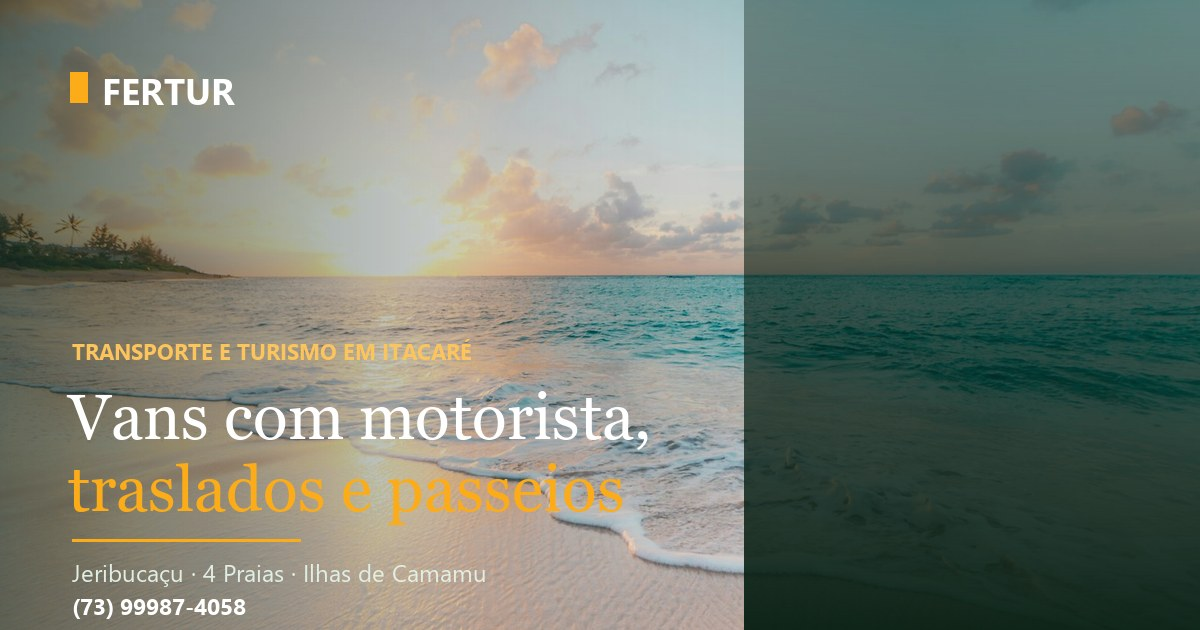
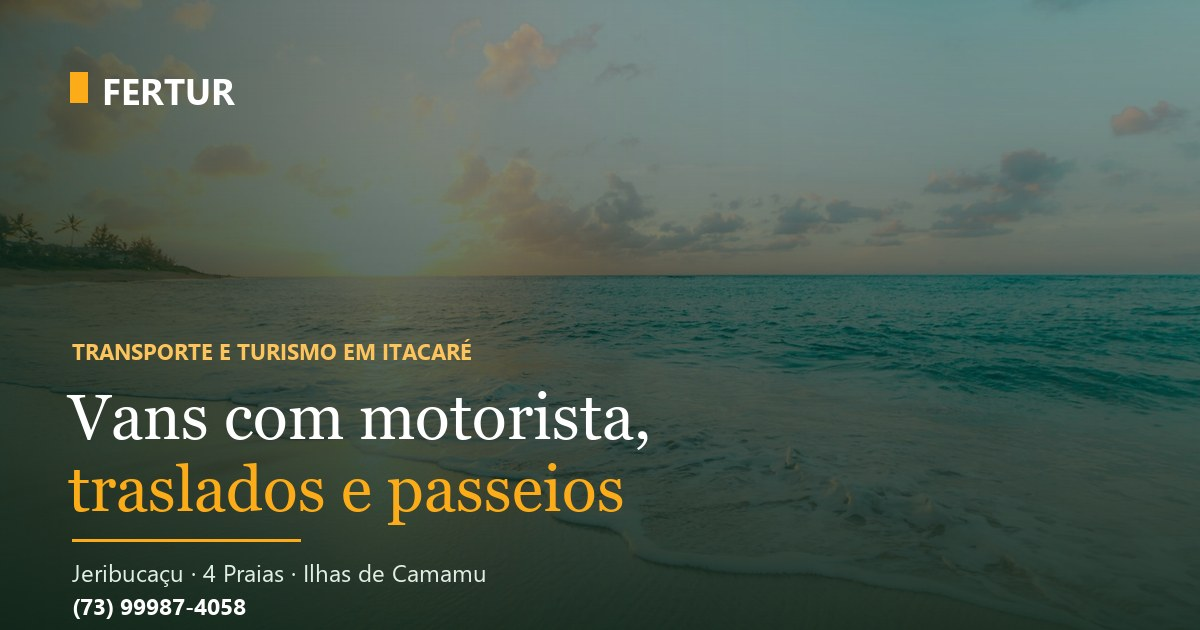
Refina a imagem de compartilhamento e força atualização do cache.
O degradê era desenhado em uma única camada RGBA e criava emenda vertical visível no cartão do WhatsApp; agora são duas camadas compostas. A imagem troca para ?v=2 porque o WhatsApp guarda a arte anterior em cache.

🤖 Generated with Codebuff

diff --git a/index.html b/index.html
@@ -15,8 +15,8 @@
 <meta property="og:url" content="https://fertur-previa.vercel.app/">
 <meta property="og:title" content="Fertur · Transporte e turismo em Itacaré">
 <meta property="og:description" content="Vans com motorista, traslados Ilhéus ↔ Itacaré e os passeios de Jeribucaçu, 4 Praias e Ilhas de Camamu. Reservas no WhatsApp (73) 99987-4058.">
-<meta property="og:image" content="https://fertur-previa.vercel.app/assets/img/og-fertur.jpg?v=1">
-<meta property="og:image:secure_url" content="https://fertur-previa.vercel.app/assets/img/og-fertur.jpg?v=1">
+<meta property="og:image" content="https://fertur-previa.vercel.app/assets/img/og-fertur.jpg?v=2">
+<meta property="og:image:secure_url" content="https://fertur-previa.vercel.app/assets/img/og-fertur.jpg?v=2">
 <meta property="og:image:type" content="image/jpeg">
 <meta property="og:image:width" content="1200">
 <meta property="og:image:height" content="630">
@@ -24,7 +24,7 @@
 <meta name="twitter:card" content="summary_large_image">
 <meta name="twitter:title" content="Fertur · Transporte e turismo em Itacaré">
 <meta name="twitter:description" content="Vans com motorista, traslados Ilhéus ↔ Itacaré e passeios em Itacaré. Reservas no WhatsApp (73) 99987-4058.">
-<meta name="twitter:image" content="https://fertur-previa.vercel.app/assets/img/og-fertur.jpg?v=1">
+<meta name="twitter:image" content="https://fertur-previa.vercel.app/assets/img/og-fertur.jpg?v=2">
 <link rel="icon" href="assets/favicon.svg" type="image/svg+xml">
 <link rel="preconnect" href="https://fonts.googleapis.com">
 <link rel="preconnect" href="https://fonts.gstatic.com" crossorigin>
